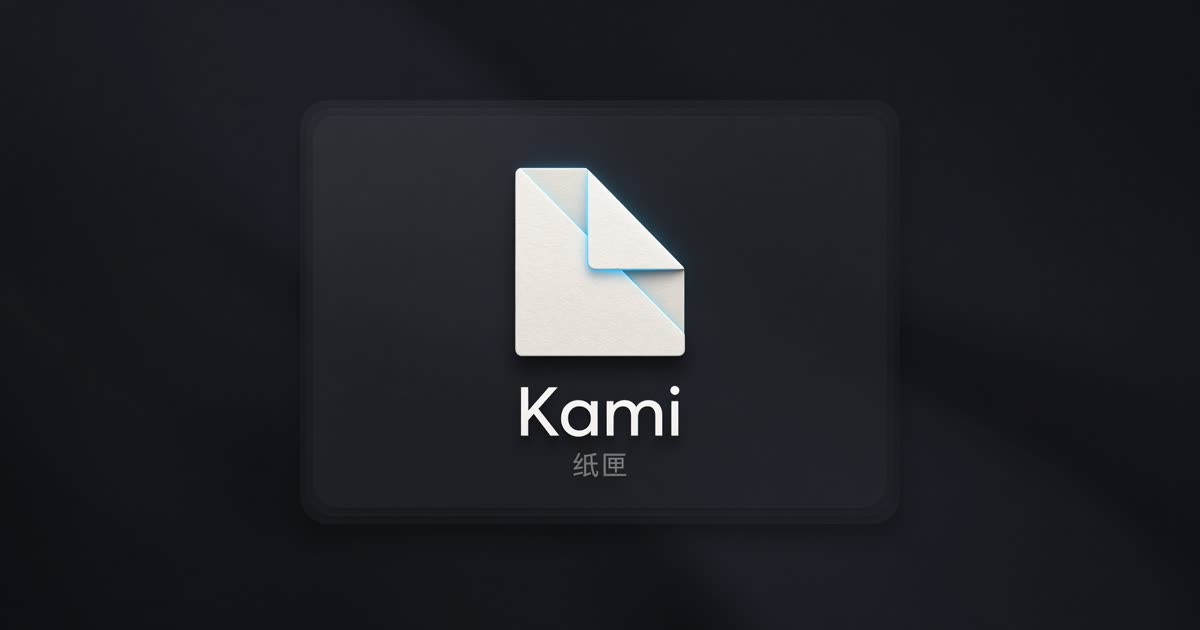
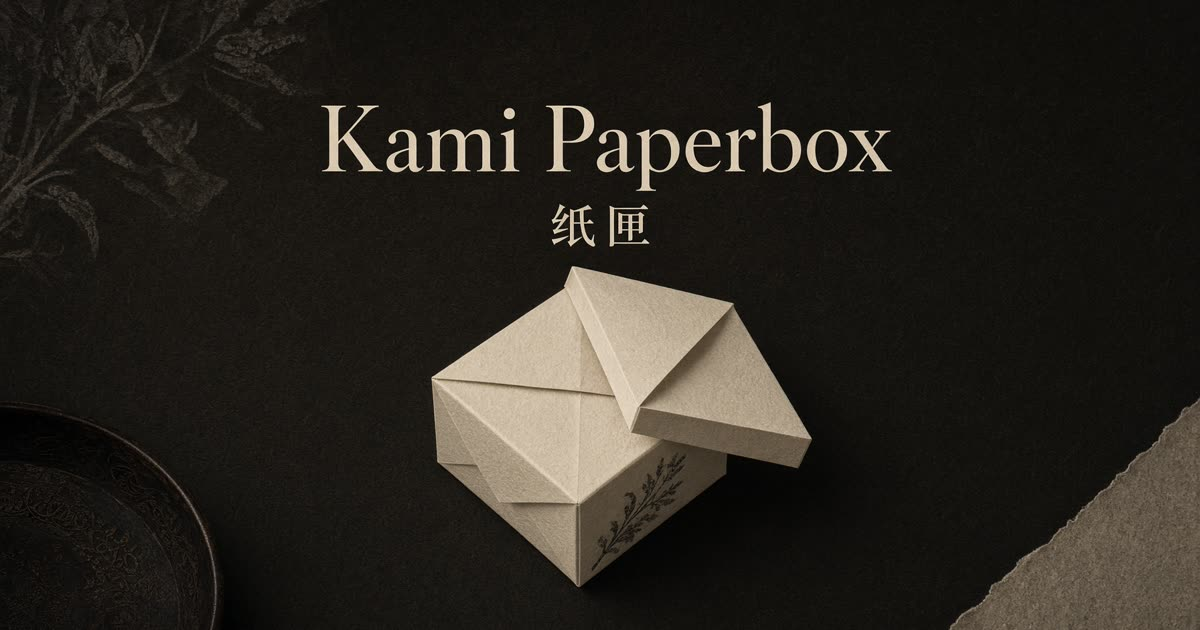
Vault waterfall layout and new paper-atelier share cards (#92)
Vault uses column waterfall. New OG and X banner.

diff --git a/src/routes/vault.tsx b/src/routes/vault.tsx
@@ -1,14 +1,13 @@
 /**
- * 纸匣页：浏览已保存作品。
+ * 纸匣页：瀑布流浏览已保存作品。
  *
- * 作用：和浏览页同一套拼版；2/4/6/9 只改一行大概几张。优先读用户文件夹原图。
- * 用法：侧栏入口。导出 / 删除在卡片悬停条上。
+ * 作用：按列往下排，封面保持原比例。交互仍是点进作品、悬停导出/移除。
+ * 用法：侧栏入口。优先读用户文件夹原图。
  */
 import { createFileRoute, Link } from "@tanstack/react-router";
 import { useEffect, useMemo, useState, type MouseEvent } from "react";
 import { toast } from "sonner";
 import { ArtworkCard } from "@/components/artwork-card";
-import { MasonryBoard } from "@/components/masonry-board";
 import { Button } from "@/components/ui/button";
 import { Input } from "@/components/ui/input";
 import { SITE_LIST } from "@/lib/sites";
@@ -24,9 +23,7 @@ import type { Source, WorkCard } from "@/lib/types";
 
 export const Route = createFileRoute("/vault")({ component: VaultPage });
 
-const SHEETS = [2, 4, 6, 9] as const;
-
-function cardFromMeta(item: VaultMeta, thumb: string): WorkCard {
+function cardFromMeta(item: VaultMeta, thumb: string, width?: number, height?: number): WorkCard {
   return {
     source: item.source,
     id: item.id,
@@ -36,6 +33,8 @@ function cardFromMeta(item: VaultMeta, thumb: string): WorkCard {
     thumb,
     pageCount: item.pageCount,
     tags: item.tags,
+    width,
+    height,
   };
 }
 
@@ -46,7 +45,6 @@ function VaultPage() {
   const [text, setText] = useState("");
   const [source, setSource] = useState<Source | "all">("all");
   const [author, setAuthor] = useState("");
-  const [sheet, setSheet] = useState<(typeof SHEETS)[number]>(4);
 
   async function refresh() {
     const local = await listVault();
@@ -97,22 +95,13 @@ function VaultPage() {
 
   return (
     <div className="space-y-5">
-      <header className="flex flex-wrap items-end justify-between gap-3">
-        <div>
-          <h1 className="font-display text-3xl tracking-tight md:text-4xl">纸匣</h1>
-          <p className="mt-1 text-sm text-muted">
-            {folderLabel
-              ? `原图在「${folderLabel}」，这里只记路径和校验。`
-              : "当前窗口不能挂文件夹时，图会暂存在应用里。"}
-          </p>
-        </div>
-        <div className="flex gap-1">
-          {SHEETS.map((n) => (
-            <Button key={n} size="sm" variant={sheet === n ? "default" : "ghost"} onClick={() => setSheet(n)}>
-              {n}
-            </Button>
-          ))}
-        </div>
+      <header>
+        <h1 className="font-display text-3xl tracking-tight md:text-4xl">纸匣</h1>
+        <p className="mt-1 text-sm text-muted">
+          {folderLabel
+            ? `原图在「${folderLabel}」，这里只记路径和校验。`
+            : "当前窗口不能挂文件夹时，图会暂存在应用里。"}
+        </p>
       </header>
 
       {all.length > 0 ? (
@@ -160,26 +149,27 @@ function VaultPage() {
       ) : items.length === 0 ? (
         <p className="py-16 text-center text-sm text-muted">没有符合条件的记录。</p>
       ) : (
-        <MasonryBoard maxCols={sheet}>
+        <div className="kami-vault-fall">
           {items.map((item, i) => (
-            <VaultCard
-              key={item.key}
-              item={item}
-              index={i}
-              origin={origin}
-              onExport={(e) => {
-                e.preventDefault();
-                e.stopPropagation();
-                void exportWork(item);
-              }}
-              onDelete={(e) => {
-                e.preventDefault();
-                e.stopPropagation();
-                void removeWork(item);
-              }}
-            />
+            <div key={item.key} className="kami-vault-tile">
+              <VaultCard
+                item={item}
+                index={i}
+                origin={origin}
+                onExport={(e) => {
+                  e.preventDefault();
+                  e.stopPropagation();
+                  void exportWork(item);
+                }}
+                onDelete={(e) => {
+                  e.preventDefault();
+                  e.stopPropagation();
+                  void removeWork(item);
+                }}
+              />
+            </div>
           ))}
-        </MasonryBoard>
+        </div>
       )}
     </div>
   );
@@ -222,6 +212,7 @@ function VaultCard({
   onDelete: (e: MouseEvent) => void;
 }) {
   const [thumb, setThumb] = useState(origin === "server" ? vaultPageUrl(item.key) : "");
+  const [size, setSize] = useState<{ width?: number; height?: number }>({});
 
   useEffect(() => {
     let cancelled = false;
@@ -232,6 +223,11 @@ function VaultCard({
       if (cancelled) return;
       if (blob) {
         url = URL.createObjectURL(blob);
+        const img = new Image();
+        img.onload = () => {
+          if (!cancelled) setSize({ width: img.naturalWidth, height: img.naturalHeight });
+        };
+        img.src = url;
         setThumb(url);
         return;
       }
@@ -245,7 +241,7 @@ function VaultCard({
 
   return (
     <ArtworkCard
-      work={cardFromMeta(item, thumb)}
+      work={cardFromMeta(item, thumb, size.width, size.height)}
       index={index}
       variant="vault"
       marks={item.replaced ? ["原图已被替换"] : undefined}

diff --git a/src/styles.css b/src/styles.css
@@ -708,3 +708,30 @@ a:focus-visible .kami-logo .kami-logo-fold {
     animation: none;
   }
 }
+
+.kami-vault-fall {
+  column-count: 2;
+  column-gap: 0.9rem;
+}
+
+@media (min-width: 720px) {
+  .kami-vault-fall {
+    column-count: 3;
+  }
+}
+
+@media (min-width: 1024px) {
+  .kami-vault-fall {
+    column-count: 4;
+  }
+}
+
+.kami-vault-tile {
+  break-inside: avoid;
+  margin-bottom: 1rem;
+}
+
+.kami-vault-fall .kami-card-shell {
+  display: inline-block;
+  width: 100%;
+}

diff --git a/README.md b/README.md
@@ -3,7 +3,7 @@
 [![AI powered by Grok](https://img.shields.io/badge/AI-powered_by_Grok-0e0d0c?style=flat-square&labelColor=e8dfd2&logo=x&logoColor=0e0d0c)](https://grok.com)
 [![xAI](https://img.shields.io/badge/built_with-Grok_Build-0e0d0c?style=flat-square&labelColor=e8dfd2)](https://x.ai)
 [![License: MIT](https://img.shields.io/badge/License-MIT-yellow.svg?style=flat-square)](LICENSE)
-[![Changelog](https://img.shields.io/badge/changelog-0.8.48-e8dfd2?style=flat-square&labelColor=0e0d0c)](CHANGELOG.md)
+[![Changelog](https://img.shields.io/badge/changelog-0.8.49-e8dfd2?style=flat-square&labelColor=0e0d0c)](CHANGELOG.md)
 
 **高速迭代中。** 功能和界面天天在改，这里不列清单。看变化去 [CHANGELOG.md](CHANGELOG.md)。
 

diff --git a/CHANGELOG.md b/CHANGELOG.md
@@ -8,6 +8,15 @@
 
 暂无。
 
+## [0.8.49] — 2026-09-02
+
+对应 [PR #92](https://github.com/Atsukiizumi/Kami-paperbox/pull/92)。
+
+### 调整
+
+- 纸匣改为瀑布流竖列，封面保持原比例。悬停导出 / 移除不变。
+- 换了分享预览和 X 横幅：暗案展开纸匣，标题 Kami Paperbox / 纸匣。
+
 ## [0.8.48] — 2026-09-02
 
 对应 [PR #91](https://github.com/Atsukiizumi/Kami-paperbox/pull/91)。
